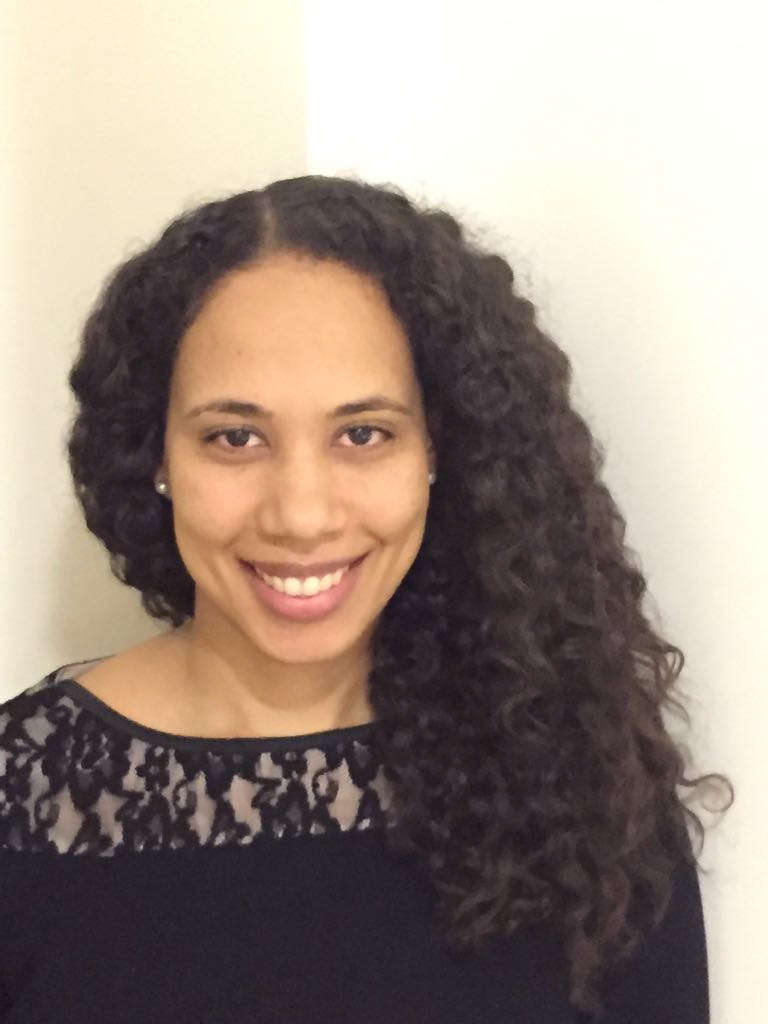
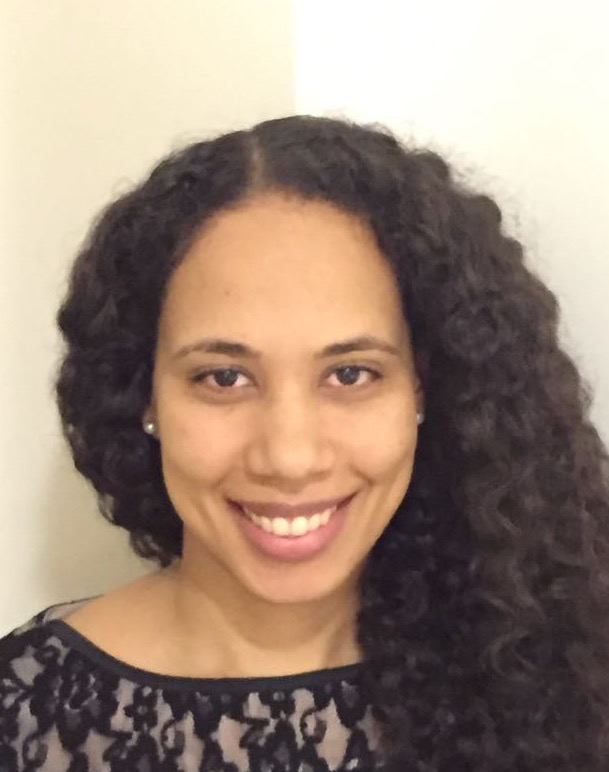
fixed header image positioning

diff --git a/style.css b/style.css
@@ -26,7 +26,6 @@ font-family: 'Roboto', sans-serif;*/
     flex-direction: column;
     border: 2px solid rgb(27, 63, 125);
 }
-
 .header-wrapper {
     border: 2px solid rgb(32, 125, 27);
     width: 80%;
@@ -55,25 +54,27 @@ font-family: 'Roboto', sans-serif;*/
     flex-direction: row;
     width: 100%;*/
 }
-.profile-image {
+.profile {
     border: 2px solid red;
-    justify-content: flex-end;
+    align-self: flex-end;
     /*display: flex;
     flex-direction: row;
     width: 100%;*/
 }
-/*.profile-image img {
+.profile-image {
     width: 180px;
-    height: 180px;
+    height: 200px;
     border-radius: 50%;
     border: 2px solid whitesmoke;
-    align-self: flex-end;
+    overflow: hidden;
+    position: relative;
+    top: 2rem;
     /* for the absolute positioning:
     position: absolute;
     bottom: -3%;
     left: 36%;
-    object-fit: cover;
-}*/
+    object-fit: cover;*/
+}
 .portfolio p {
     font-family: 'Roboto';
     font-size: 14px;
@@ -307,27 +308,18 @@ div.tooltip[aria-hidden="true"] {
 /* TABLET STYLING */
 @media (min-width: 668px) and (max-width:1024px) {
     .profile-image {
-        left: 53%;
-        bottom: -3%;
         width: 300px;
-        height: 300px;
+        height: 320px;
     }
-
 }
 
 /* DESKTOP */
 @media (min-width: 1025px) {
     .profile-image {
-        left: 60%;
-        bottom: -3%;
-        width: 400px;
-        height: 400px;
+        width: 330px;
+        height: 350px;
     }
-
-    .top {
-        height: 56vh;
-    }
-
+   
     .summary {
         font-size: 30px;
         line-height: 50px;

diff --git a/index.html b/index.html
@@ -33,8 +33,8 @@
         </div>
        <!--</section>-->
       <!--<section class="header-wrapper">-->
-        <div class="profile-image">
-        <!-- <img src="./assets/profile-image.jpeg" alt="Tina's profile picture"> -->
+        <div class="profile">
+          <img class="profile-image" src="./assets/profile-image.jpeg" alt="Tina's profile picture">
         </div>
       </section>
     </header>  
